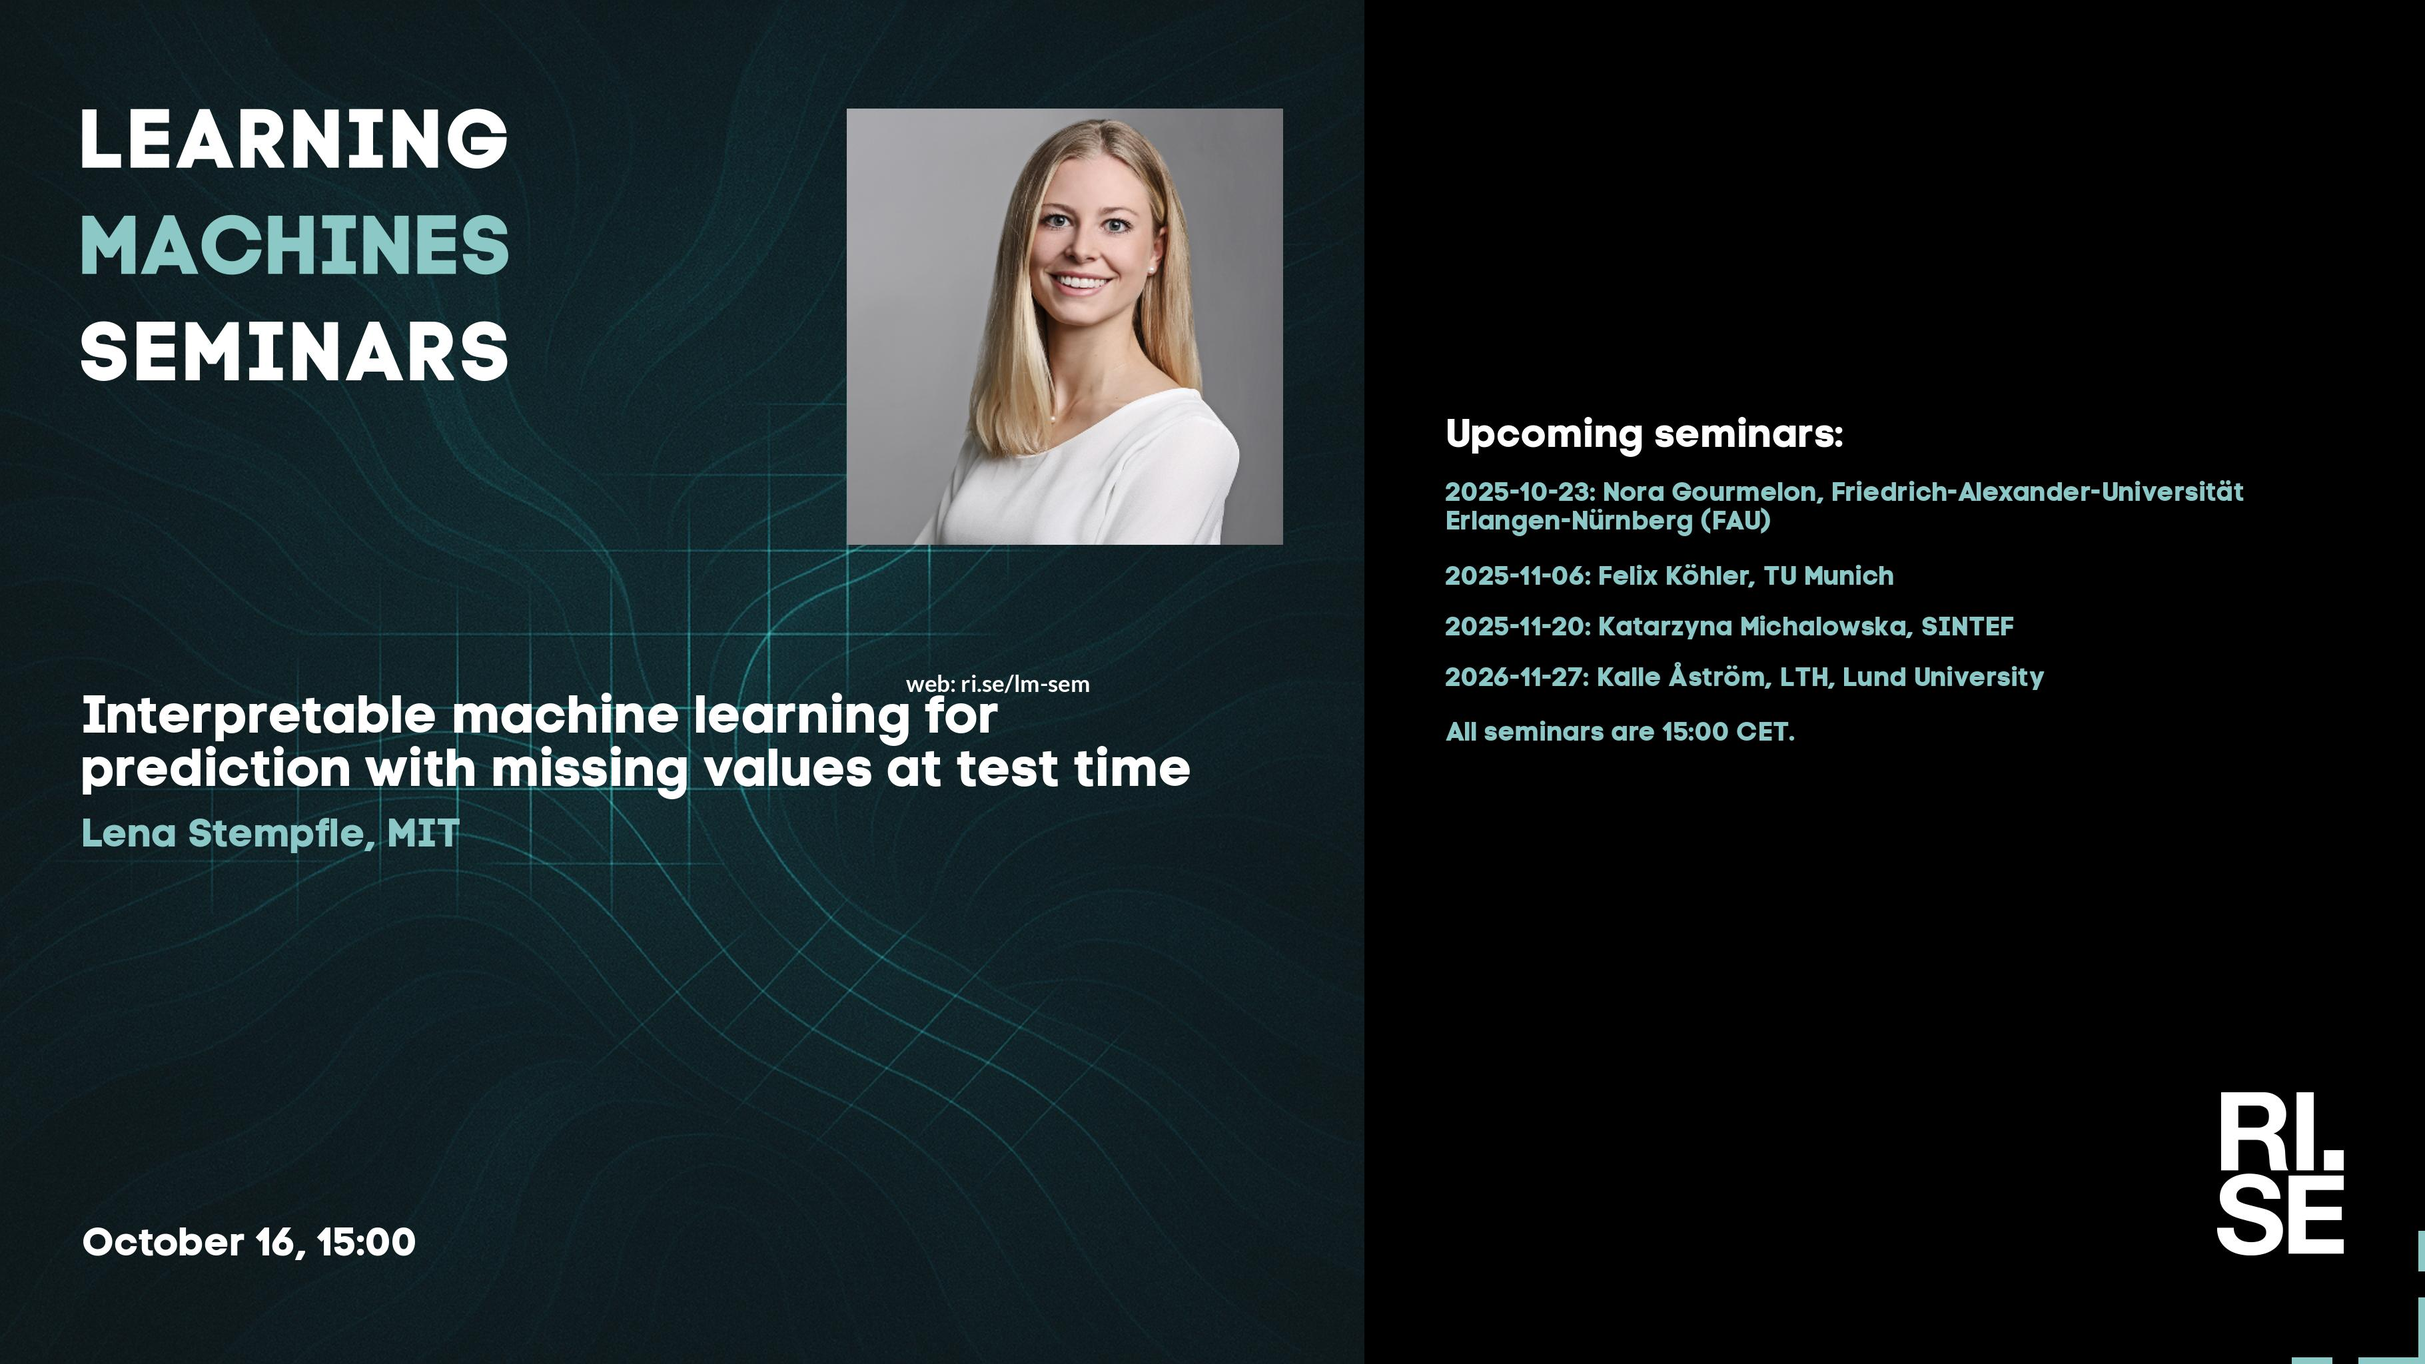
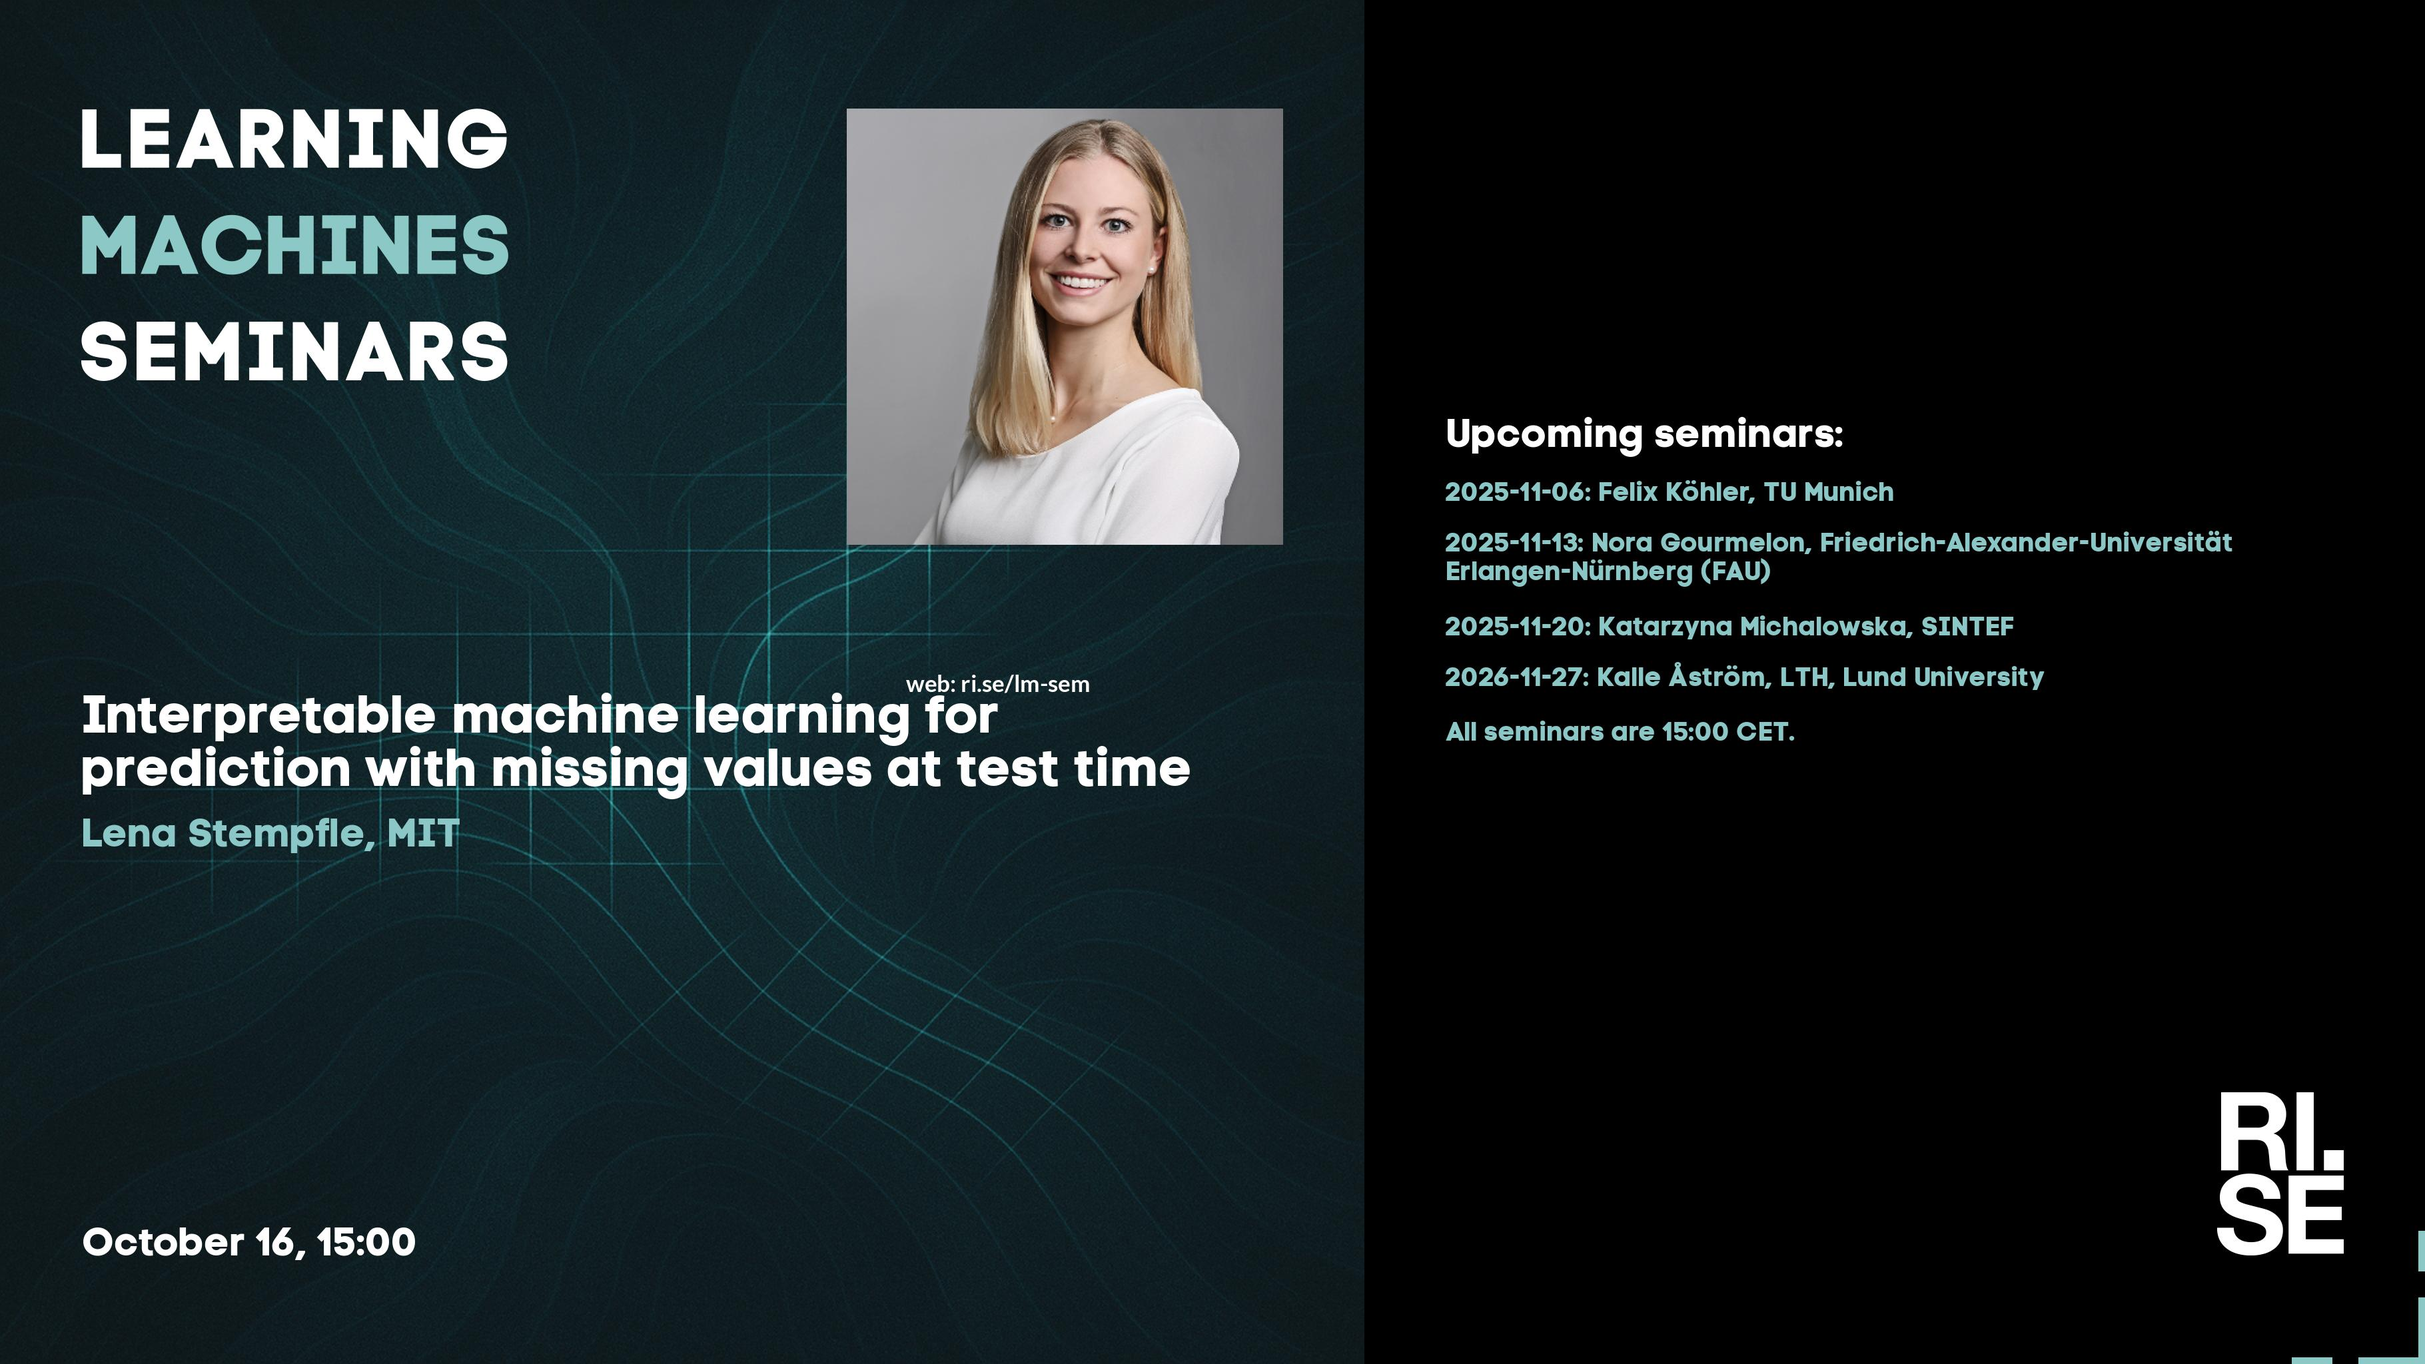
Updated plan on web site.

Changed region(s): [[0.5898, 0.3438, 0.9313, 0.4375]]

diff --git a/lm/2025.md b/lm/2025.md
@@ -37,8 +37,8 @@ table {border-collapse: collapse;}
 |  2025-09-25  |  [Sigrid Passano Hellan, NORCE Norwegian Research Centre](2025-09-25.md)  |  [photo](2025-09-25-photo-sigrid-passano-hellan.jpg)  |  [social media bg ](2025-09-25-social-media-bg-sigrid-passano-hellan.jpg) --- [social media photo ](2025-09-25-social-media-photo-sigrid-passano-hellan.jpg) --- [social media 169 ](2025-09-25-social-media-169-sigrid-passano-hellan.jpg)  |  [meeting backdrop ](2025-09-25-meeting-backdrop-sigrid-passano-hellan.jpg)  |  [youtube thumbnail ](2025-09-25-youtube-thumbnail-sigrid-passano-hellan.jpg)  |  STABP  |
 |  2025-10-09  |  [Sebastian Hafner, RISE Research Institutes of Sweden](2025-10-09.md)  |  [photo](2025-10-09-photo-sebastian-hafner.jpg)  |  [social media bg ](2025-10-09-social-media-bg-sebastian-hafner.jpg) --- [social media photo ](2025-10-09-social-media-photo-sebastian-hafner.jpg) --- [social media 169 ](2025-10-09-social-media-169-sebastian-hafner.jpg)  |  [meeting backdrop ](2025-10-09-meeting-backdrop-sebastian-hafner.jpg)  |  [youtube thumbnail ](2025-10-09-youtube-thumbnail-sebastian-hafner.jpg)  |  STABP  |
 |  2025-10-16  |  [Lena Stempfle, MIT](2025-10-16.md)  |  [photo](2025-10-16-photo-lena-stempfle.png)  |  [social media bg ](2025-10-16-social-media-bg-lena-stempfle.jpg) --- [social media photo ](2025-10-16-social-media-photo-lena-stempfle.jpg) --- [social media 169 ](2025-10-16-social-media-169-lena-stempfle.jpg)  |  [meeting backdrop ](2025-10-16-meeting-backdrop-lena-stempfle.jpg)  |  [youtube thumbnail ](2025-10-16-youtube-thumbnail-lena-stempfle.jpg)  |  STABP  |
-|  2025-10-23  |  [Nora Gourmelon, Friedrich-Alexander-Universität Erlangen-Nürnberg (FAU)](2025-10-23.md)  |  [photo](2025-10-23-photo-nora-gourmelon.jpg)  |  [social media bg ](2025-10-23-social-media-bg-nora-gourmelon.jpg) --- [social media photo ](2025-10-23-social-media-photo-nora-gourmelon.jpg) --- [social media 169 ](2025-10-23-social-media-169-nora-gourmelon.jpg)  |  [meeting backdrop ](2025-10-23-meeting-backdrop-nora-gourmelon.jpg)  |  [youtube thumbnail ](2025-10-23-youtube-thumbnail-nora-gourmelon.jpg)  |  STABP  |
 |  2025-11-06  |  [Felix Köhler, TU Munich](2025-11-06.md)  |  [photo](2025-11-06-photo-felix-kohler.jpg)  |  [social media bg ](2025-11-06-social-media-bg-felix-kohler.jpg) --- [social media photo ](2025-11-06-social-media-photo-felix-kohler.jpg) --- [social media 169 ](2025-11-06-social-media-169-felix-kohler.jpg)  |  [meeting backdrop ](2025-11-06-meeting-backdrop-felix-kohler.jpg)  |  [youtube thumbnail ](2025-11-06-youtube-thumbnail-felix-kohler.jpg)  |  STABP  |
+|  2025-11-13  |  [Nora Gourmelon, Friedrich-Alexander-Universität Erlangen-Nürnberg (FAU)](2025-11-13.md)  |    |  [social media bg ](2025-11-13-social-media-bg-nora-gourmelon.jpg) --- [social media photo ](2025-11-13-social-media-photo-nora-gourmelon.jpg) --- [social media 169 ](2025-11-13-social-media-169-nora-gourmelon.jpg)  |  [meeting backdrop ](2025-11-13-meeting-backdrop-nora-gourmelon.jpg)  |  [youtube thumbnail ](2025-11-13-youtube-thumbnail-nora-gourmelon.jpg)  |  STAB~~P~~  |
 |  2025-11-20  |  [Katarzyna Michalowska, SINTEF](2025-11-20.md)  |  [photo](2025-11-20-photo-katarzyna-michalowska.jpg)  |  [social media bg ](2025-11-20-social-media-bg-katarzyna-michalowska.jpg) --- [social media photo ](2025-11-20-social-media-photo-katarzyna-michalowska.jpg) --- [social media 169 ](2025-11-20-social-media-169-katarzyna-michalowska.jpg)  |  [meeting backdrop ](2025-11-20-meeting-backdrop-katarzyna-michalowska.jpg)  |  [youtube thumbnail ](2025-11-20-youtube-thumbnail-katarzyna-michalowska.jpg)  |  STABP  |
 |  2026-11-27  |  [Kalle Åström, LTH, Lund University](2026-11-27.md)  |  [photo](2026-11-27-photo-kalle-astrom.jpg)  |  [social media bg ](2026-11-27-social-media-bg-kalle-astrom.jpg) --- [social media photo ](2026-11-27-social-media-photo-kalle-astrom.jpg) --- [social media 169 ](2026-11-27-social-media-169-kalle-astrom.jpg)  |  [meeting backdrop ](2026-11-27-meeting-backdrop-kalle-astrom.jpg)  |  [youtube thumbnail ](2026-11-27-youtube-thumbnail-kalle-astrom.jpg)  |  STABP  |
 |  2025-12-11  |  [Zhengpeng (Frank) Feng, Cambridge](2025-12-11.md)  |    |  [social media bg ](2025-12-11-social-media-bg-zhengpeng-(frank)-feng.jpg) --- [social media photo ](2025-12-11-social-media-photo-zhengpeng-(frank)-feng.jpg) --- [social media 169 ](2025-12-11-social-media-169-zhengpeng-(frank)-feng.jpg)  |  [meeting backdrop ](2025-12-11-meeting-backdrop-zhengpeng-(frank)-feng.jpg)  |  [youtube thumbnail ](2025-12-11-youtube-thumbnail-zhengpeng-(frank)-feng.jpg)  |  STAB~~P~~  |

diff --git a/lm/index.md b/lm/index.md
@@ -37,8 +37,8 @@ table {border-collapse: collapse;}
 |  2025-09-25  |  [Sigrid Passano Hellan, NORCE Norwegian Research Centre](2025-09-25.md)  |  [photo](2025-09-25-photo-sigrid-passano-hellan.jpg)  |  [social media bg ](2025-09-25-social-media-bg-sigrid-passano-hellan.jpg) --- [social media photo ](2025-09-25-social-media-photo-sigrid-passano-hellan.jpg) --- [social media 169 ](2025-09-25-social-media-169-sigrid-passano-hellan.jpg)  |  [meeting backdrop ](2025-09-25-meeting-backdrop-sigrid-passano-hellan.jpg)  |  [youtube thumbnail ](2025-09-25-youtube-thumbnail-sigrid-passano-hellan.jpg)  |  STABP  |
 |  2025-10-09  |  [Sebastian Hafner, RISE Research Institutes of Sweden](2025-10-09.md)  |  [photo](2025-10-09-photo-sebastian-hafner.jpg)  |  [social media bg ](2025-10-09-social-media-bg-sebastian-hafner.jpg) --- [social media photo ](2025-10-09-social-media-photo-sebastian-hafner.jpg) --- [social media 169 ](2025-10-09-social-media-169-sebastian-hafner.jpg)  |  [meeting backdrop ](2025-10-09-meeting-backdrop-sebastian-hafner.jpg)  |  [youtube thumbnail ](2025-10-09-youtube-thumbnail-sebastian-hafner.jpg)  |  STABP  |
 |  2025-10-16  |  [Lena Stempfle, MIT](2025-10-16.md)  |  [photo](2025-10-16-photo-lena-stempfle.png)  |  [social media bg ](2025-10-16-social-media-bg-lena-stempfle.jpg) --- [social media photo ](2025-10-16-social-media-photo-lena-stempfle.jpg) --- [social media 169 ](2025-10-16-social-media-169-lena-stempfle.jpg)  |  [meeting backdrop ](2025-10-16-meeting-backdrop-lena-stempfle.jpg)  |  [youtube thumbnail ](2025-10-16-youtube-thumbnail-lena-stempfle.jpg)  |  STABP  |
-|  2025-10-23  |  [Nora Gourmelon, Friedrich-Alexander-Universität Erlangen-Nürnberg (FAU)](2025-10-23.md)  |  [photo](2025-10-23-photo-nora-gourmelon.jpg)  |  [social media bg ](2025-10-23-social-media-bg-nora-gourmelon.jpg) --- [social media photo ](2025-10-23-social-media-photo-nora-gourmelon.jpg) --- [social media 169 ](2025-10-23-social-media-169-nora-gourmelon.jpg)  |  [meeting backdrop ](2025-10-23-meeting-backdrop-nora-gourmelon.jpg)  |  [youtube thumbnail ](2025-10-23-youtube-thumbnail-nora-gourmelon.jpg)  |  STABP  |
 |  2025-11-06  |  [Felix Köhler, TU Munich](2025-11-06.md)  |  [photo](2025-11-06-photo-felix-kohler.jpg)  |  [social media bg ](2025-11-06-social-media-bg-felix-kohler.jpg) --- [social media photo ](2025-11-06-social-media-photo-felix-kohler.jpg) --- [social media 169 ](2025-11-06-social-media-169-felix-kohler.jpg)  |  [meeting backdrop ](2025-11-06-meeting-backdrop-felix-kohler.jpg)  |  [youtube thumbnail ](2025-11-06-youtube-thumbnail-felix-kohler.jpg)  |  STABP  |
+|  2025-11-13  |  [Nora Gourmelon, Friedrich-Alexander-Universität Erlangen-Nürnberg (FAU)](2025-11-13.md)  |    |  [social media bg ](2025-11-13-social-media-bg-nora-gourmelon.jpg) --- [social media photo ](2025-11-13-social-media-photo-nora-gourmelon.jpg) --- [social media 169 ](2025-11-13-social-media-169-nora-gourmelon.jpg)  |  [meeting backdrop ](2025-11-13-meeting-backdrop-nora-gourmelon.jpg)  |  [youtube thumbnail ](2025-11-13-youtube-thumbnail-nora-gourmelon.jpg)  |  STAB~~P~~  |
 |  2025-11-20  |  [Katarzyna Michalowska, SINTEF](2025-11-20.md)  |  [photo](2025-11-20-photo-katarzyna-michalowska.jpg)  |  [social media bg ](2025-11-20-social-media-bg-katarzyna-michalowska.jpg) --- [social media photo ](2025-11-20-social-media-photo-katarzyna-michalowska.jpg) --- [social media 169 ](2025-11-20-social-media-169-katarzyna-michalowska.jpg)  |  [meeting backdrop ](2025-11-20-meeting-backdrop-katarzyna-michalowska.jpg)  |  [youtube thumbnail ](2025-11-20-youtube-thumbnail-katarzyna-michalowska.jpg)  |  STABP  |
 |  2026-11-27  |  [Kalle Åström, LTH, Lund University](2026-11-27.md)  |  [photo](2026-11-27-photo-kalle-astrom.jpg)  |  [social media bg ](2026-11-27-social-media-bg-kalle-astrom.jpg) --- [social media photo ](2026-11-27-social-media-photo-kalle-astrom.jpg) --- [social media 169 ](2026-11-27-social-media-169-kalle-astrom.jpg)  |  [meeting backdrop ](2026-11-27-meeting-backdrop-kalle-astrom.jpg)  |  [youtube thumbnail ](2026-11-27-youtube-thumbnail-kalle-astrom.jpg)  |  STABP  |
 |  2025-12-11  |  [Zhengpeng (Frank) Feng, Cambridge](2025-12-11.md)  |    |  [social media bg ](2025-12-11-social-media-bg-zhengpeng-(frank)-feng.jpg) --- [social media photo ](2025-12-11-social-media-photo-zhengpeng-(frank)-feng.jpg) --- [social media 169 ](2025-12-11-social-media-169-zhengpeng-(frank)-feng.jpg)  |  [meeting backdrop ](2025-12-11-meeting-backdrop-zhengpeng-(frank)-feng.jpg)  |  [youtube thumbnail ](2025-12-11-youtube-thumbnail-zhengpeng-(frank)-feng.jpg)  |  STAB~~P~~  |

diff --git a/lm/2025-11-13.md b/lm/2025-11-13.md
@@ -1,0 +1,40 @@
+---
+layout: default
+metatags: "<meta name=\"robots\" content=\"noindex,nofollow\" />"
+---
+<img src="/lm/2025-11-13-youtube-thumbnail-nora-gourmelon.jpg" />
+ 
+Welcome to this week's Learning Machines seminar.
+
+This seminar is a collaboration between RISE and Climate AI Nordics -- [climateainordics.com](https://climateainordics.com/).
+
+**Title:** Self-supervised pre-training for glacier calving front extraction from synthetic aperture radar imagery
+
+**Speaker:** Nora Gourmelon, Friedrich-Alexander-Universität Erlangen-Nürnberg (FAU)
+
+**Abstract:** The factors influencing melt at glacier fronts facing the ocean remain an active area of research. To better understand these factors, it is essential to monitor changes in glacier calving fronts. Due to the importance of weather-dependent and seasonal variations, Synthetic Aperture Radar (SAR) is the preferred imaging method for such monitoring. In recent years, deep learning models have been developed to automate the extraction of calving front positions, however, their performance on SAR data remains suboptimal.
+
+Limited labeled data and high variability in SAR images hinder traditional supervised learning. Foundation models pre-trained on large, diverse datasets could provide robust feature representations that require minimal labeled data for fine-tuning on specific SAR tasks. However, in preliminary experiments, we found that the domain gap is too large for the task of extracting calving fronts from SAR imagery, and foundation models fine-tuned on the &quot;CAlving Fronts and where to Find thEm&quot; (CaFFe) benchmark dataset performed subpar.
+
+Therefore, we compiled an unlabeled dataset of Sentinel-1 SAR image sequences of Arctic glaciers, each associated with a single Sentinel-2 optical reference image. Using this dataset, we developed a novel multi-modal self-supervised pre-training strategy and applied it to pre-train a hybrid CNN-transformer model. Fine-tuning on the CaFFe benchmark showed that the pre-trained model outperforms its non-pre-trained counterpart, enabling more robust calving front segmentation and demonstrating the potential of data-efficient learning for SAR imagery.
+
+**About the speaker:** Nora Gourmelon is a PhD student at Friedrich Alexander Universität Erlangen Nürnberg, specializing in AI for Earth. Her current research focuses on automating glacier calving front segmentation in Synthetic Aperture Radar satellite imagery. She holds an M.Sc. in computer science with honors, complemented by study abroad semesters at NTNU (Norway) and SMU (Canada). She actively contributes to promoting wellbeing and equity within her lab, engaging in mental health and gender-equality initiatives. Recognized as an AI Newcomer by the German Informatics Society in 2023, her interdisciplinary research bridges computer vision, remote sensing, and cryospheric science.
+
+**Location:** This is an online seminar. Connect using Zoom.
+
+**Date:** 2025-11-13 15:00
+
+**Zoom link:** [https://rise.zoom.us/j/69691371971?pwd=waoqEp3CTaUIf12qGJH3phZ0nzk6Oa.1](https://rise.zoom.us/j/69691371971?pwd=waoqEp3CTaUIf12qGJH3phZ0nzk6Oa.1)
+
+**Upcoming seminars:**
+
+* 2025-11-20: Katarzyna Michalowska, SINTEF
+* 2026-11-27: Kalle Åström, LTH, Lund University
+* 2025-12-11: Zhengpeng (Frank) Feng, Cambridge
+* 2026-02-05: Pablo Villanueva Perez, Lund University
+* All seminars are 15:00 CET.
+
+More information and coming seminars: [https://ri.se/lm-sem](https://ri.se/lm-sem)
+
+-- The Learning Machines Team
+

diff --git a/lm/2025-11-06.md b/lm/2025-11-06.md
@@ -22,10 +22,10 @@ Welcome to this week's Learning Machines seminar.
 
 **Upcoming seminars:**
 
+* 2025-11-13: Nora Gourmelon, Friedrich-Alexander-Universität Erlangen-Nürnberg (FAU)
 * 2025-11-20: Katarzyna Michalowska, SINTEF
 * 2026-11-27: Kalle Åström, LTH, Lund University
 * 2025-12-11: Zhengpeng (Frank) Feng, Cambridge
-* 2026-02-05: Pablo Villanueva Perez, Lund University
 * All seminars are 15:00 CET.
 
 More information and coming seminars: [https://ri.se/lm-sem](https://ri.se/lm-sem)

diff --git a/lm/2025-10-09.md b/lm/2025-10-09.md
@@ -25,8 +25,8 @@ This seminar is a collaboration between RISE and Climate AI Nordics -- [climatea
 **Upcoming seminars:**
 
 * 2025-10-16: Lena Stempfle, MIT
-* 2025-10-23: Nora Gourmelon, Friedrich-Alexander-Universität Erlangen-Nürnberg (FAU)
 * 2025-11-06: Felix Köhler, TU Munich
+* 2025-11-13: Nora Gourmelon, Friedrich-Alexander-Universität Erlangen-Nürnberg (FAU)
 * 2025-11-20: Katarzyna Michalowska, SINTEF
 * All seminars are 15:00 CET.
 

diff --git a/lm/2025-10-16.md b/lm/2025-10-16.md
@@ -22,8 +22,8 @@ Welcome to this week's Learning Machines seminar.
 
 **Upcoming seminars:**
 
-* 2025-10-23: Nora Gourmelon, Friedrich-Alexander-Universität Erlangen-Nürnberg (FAU)
 * 2025-11-06: Felix Köhler, TU Munich
+* 2025-11-13: Nora Gourmelon, Friedrich-Alexander-Universität Erlangen-Nürnberg (FAU)
 * 2025-11-20: Katarzyna Michalowska, SINTEF
 * 2026-11-27: Kalle Åström, LTH, Lund University
 * All seminars are 15:00 CET.
